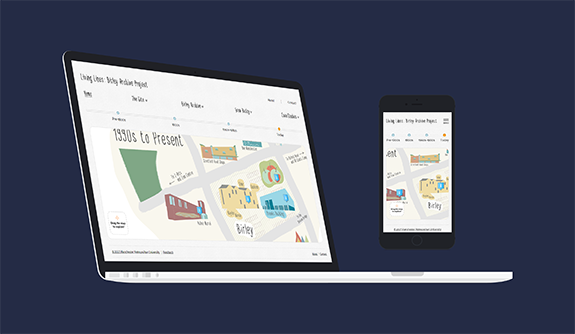
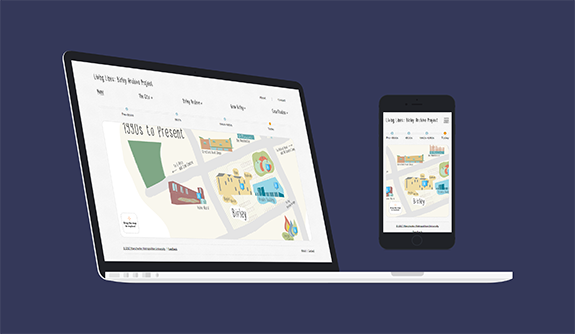
button change to projects and divider

diff --git a/assets/css/3-components/_projects.scss b/assets/css/3-components/_projects.scss
@@ -3,13 +3,13 @@
   flex-direction: column;
   color: white;
   font-size: 1.25rem;
+}
 
-  a {
-    color: lighten($tilecolour--hover, 5);
-    font-weight: 500;
-    text-decoration: none;
-    border-bottom: .1em solid $tilecolour--hover;
-  }
+.project__link {
+  color: lighten($tilecolour--hover, 5);
+  font-weight: 500;
+  text-decoration: none;
+  border-bottom: .1em solid $tilecolour--hover;
 }
 
 .project + * {
@@ -42,18 +42,22 @@
 }
 
 .project__btn-view {
+  display: block;
+  text-align: center;
   margin: 1em 0;
-  background-color: lighten($maincolour, 10);
-  border: .1em solid $maincolour;
+  //background-color: lighten($maincolour, 5);
+  border: .1em solid $tilecolour;
   font-family: $bodyfont;
   font-weight: bold;
   padding: .5em;
   color: white;
   width: 100%;
   align-self: center;
+  text-decoration: none;
 
   &:hover, &:active, &:focus {
-    background-color: $tilecolour;
+    background-color: transparent;
+    border: .1em solid lighten($maincolour, 15);
     color: white;
   }
 }
@@ -70,11 +74,19 @@
 
 .tool-tag {
   background-color: $tilecolour--hover;
-  padding: .5em 1em;  
+  padding: .5em 1em;
   display: inline-block;
   margin-bottom: .5em;
   font-size: 1rem;
   color: white;
+}
+
+@media screen and (min-width: $mqphonelimit) {
+
+  .project__title {
+    font-size: 1.3em;
+  }
+
 }
 
 @media screen and (min-width: $mqbiglogo) {
@@ -112,7 +124,7 @@
 
   .project__info {
     order: 2;
-    flex: 1;
+    flex: 1.25;
   }
 
   .project__text {
@@ -123,8 +135,9 @@
     order: 3;
     flex: 1;
     margin-left: 2em;
-    //align-self: center;
-
+    height: 100%;
+    border-left: .1em dashed $tilecolour;
+    padding-left: 2em;
   }
 
 }

diff --git a/assets/css/style.css b/assets/css/style.css
@@ -780,7 +780,7 @@ body {
 	font-size: 1.25rem;
 }
 
-.project a {
+.project__link {
 	color: #db6b65;
 	font-weight: 500;
 	text-decoration: none;
@@ -822,9 +822,10 @@ body {
 }
 
 .project__btn-view {
+	display: block;
+	text-align: center;
 	margin: 1em 0;
-	background-color: #434873;
-	border: 0.1em solid #303453;
+	border: 0.1em solid #343859;
 	font-family: "Webly Sleek UI Type", "Segoe UI", Tahoma, Arial, sans-serif;
 	font-weight: bold;
 	padding: .5em;
@@ -833,12 +834,14 @@ body {
 	-ms-flex-item-align: center;
 	-ms-grid-row-align: center;
 	align-self: center;
+	text-decoration: none;
 }
 
 .project__btn-view:hover,
 .project__btn-view:active,
 .project__btn-view:focus {
-	background-color: #343859;
+	background-color: transparent;
+	border: 0.1em solid #4c5283;
 	color: white;
 }
 
@@ -904,6 +907,10 @@ body {
 
 .tile-inner__sub--intro {
 	font-size: 1rem;
+}
+
+.project__title {
+	font-size: 1.3em;
 }
 
 }
@@ -1080,9 +1087,9 @@ body {
 	-webkit-box-ordinal-group: 3;
 	-ms-flex-order: 2;
 	order: 2;
-	-webkit-box-flex: 1;
-	-ms-flex: 1;
-	flex: 1;
+	-webkit-box-flex: 1.25;
+	-ms-flex: 1.25;
+	flex: 1.25;
 }
 
 .project__text {
@@ -1097,6 +1104,9 @@ body {
 	-ms-flex: 1;
 	flex: 1;
 	margin-left: 2em;
+	height: 100%;
+	border-left: 0.1em dashed #343859;
+	padding-left: 2em;
 }
 
 }

diff --git a/assets/css/3-components/_content.scss b/assets/css/3-components/_content.scss
@@ -2,7 +2,6 @@
   max-width: 1006px;
   width: 100vw;
   margin-left: -1em;
-  //background-color: lighten($maincolour, 2);
   margin-bottom: 1em;
 }
 
@@ -33,7 +32,6 @@
 
   .content__inner {
     padding: 2rem;
-    //border: 2px solid $maincolour;
   }
 
   .title {

diff --git a/projects/index.php b/projects/index.php
@@ -20,13 +20,13 @@
             <section class="project">
               <h3 class="project__title">Living Lines: Birley Archive Project</h3>
               <div class="project__imgbtn-wrapper">
-                <img class="project__img" src="<?php echo $index?>/assets/img/project_birley.png" width="" height="" alt="Birley Archive Project Screenshot">
-                <button class="project__btn-view">View site</button>
+                <img class="project__img" src="<?php echo $index?>/assets/img/project_birley.png" width="575" height="334" alt="Birley Archive Project Screenshot">
+                <a href="#" class="project__btn-view">View site</a>
               </div>
               <div class="project__info">
                 <h3 class="project__title project__title--no-mob">Living Lines: Birley Archive Project</h3>
                 <h4 class="project__header">Overview</h4>
-                <p class="project__text"><span class="project__text--intro">Living Lines is a project documenting the changes that have occurred around the Hulme area of Manchester since the 1800s, with a particular focus on Birley, the site of Manchester Metropolitan University's newest campus.</span> A challenging project, as the sole web developer I was responsible for the design and development of the website, collating various media and content types to produce an accessible and responsive solution. The client had a concept based around illustrated (illustrations and handwritten titles by <a href="https://katedunstone.co.uk/">Kate Dunstone</a>), interactive maps to demonstrate the different 'layers' of history at the Birley site. Creating these and ensuring a sound mobile user experience was challenging but something from which I learned a great deal.</p>
+                <p class="project__text"><span class="project__text--intro">Living Lines is a project documenting the changes that have occurred around the Hulme area of Manchester since the 1800s, with a particular focus on Birley, the site of Manchester Metropolitan University's newest campus.</span> A challenging project, as the sole web developer I was responsible for the design and development of the website, collating various media and content types to produce an accessible and responsive solution. The client had a concept based around illustrated (illustrations and handwritten titles by <a href="https://katedunstone.co.uk/" class="project__link">Kate Dunstone</a>), interactive maps to demonstrate the different 'layers' of history at the Birley site. Creating these and ensuring a sound mobile user experience was challenging but something from which I learned a great deal.</p>
                 <h4 class="project__header">Tools/Tech</h4>
                 <p class="project__text">
                   <span class="tool-tag">HTML5</span>
@@ -46,8 +46,8 @@
             <section class="project">
               <h3 class="project__title">Liverpool, Pembroke & Sefton Athletics</h3>
               <div class="project__imgbtn-wrapper">
-                <img class="project__img" src="<?php echo $index?>/assets/img/project_lps.png" width="" height="" alt="LPS Website Screenshot">
-                <button class="project__btn-view">View site</button>
+                <img class="project__img" src="<?php echo $index?>/assets/img/project_lps.png" width="575" height="334" alt="LPS Website Screenshot">
+                <a href="#" class="project__btn-view">View site</a>
               </div>
               <div class="project__info">
                 <h3 class="project__title project__title--no-mob">Liverpool, Pembroke & Sefton Athletics</h3>

diff --git a/assets/includes/head.php b/assets/includes/head.php
@@ -10,7 +10,7 @@
     <meta name="keywords" content="<?php echo $keywords ?>">
     <meta name="viewport" content="width=device-width, initial-scale=1, maximum-scale=1" />
 
-    <link rel="icon" href="favicon.svg">    
+    <link rel="icon" href="favicon.svg">
 
     <link rel="stylesheet" href="<?php echo $index?>/assets/css/normalize.css">
     <link rel="stylesheet" href="<?php echo $index?>/assets/css/style.css">
